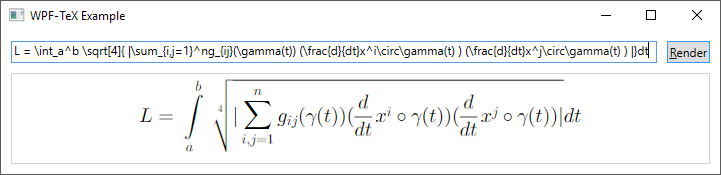
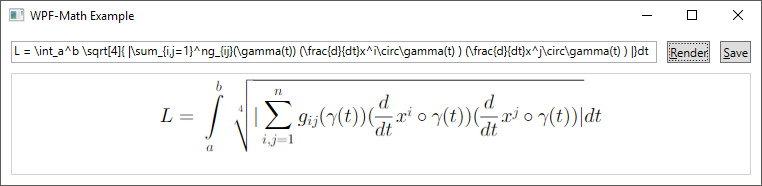
Consistent project naming
Project is named WPF-Math, and the solution and all the technical files
are named WpfMath.

diff --git a/WpfMath.Example/MainWindow.xaml b/WpfMath.Example/MainWindow.xaml
@@ -2,7 +2,7 @@
         xmlns="http://schemas.microsoft.com/winfx/2006/xaml/presentation"
         xmlns:x="http://schemas.microsoft.com/winfx/2006/xaml"
         xmlns:controls="clr-namespace:WpfMath.Example.Controls"
-        Title="WPF-TeX Example" Width="640" Height="520"
+        Title="WPF-Math Example" Width="640" Height="520"
         Loaded="Window_Loaded" Closed="Window_Closed">
     <Window.Resources>
 
@@ -32,7 +32,7 @@
                 <Button Name="renderButton" Grid.Column="0" Margin="10,0,0,0" HorizontalAlignment="Right" VerticalAlignment="Stretch" Content="_Render" IsDefault="True" Click="renderButton_Click"/>
                 <Button Name="saveButton" Grid.Column="1" Margin="10,0,0,0" HorizontalAlignment="Right" VerticalAlignment="Stretch" Content="_Save" Click="saveButton_Click"/>
             </Grid>
-                
+
             <TextBox Name="inputTextBox" HorizontalAlignment="Stretch" VerticalAlignment="Stretch"/>
 
         </DockPanel>
